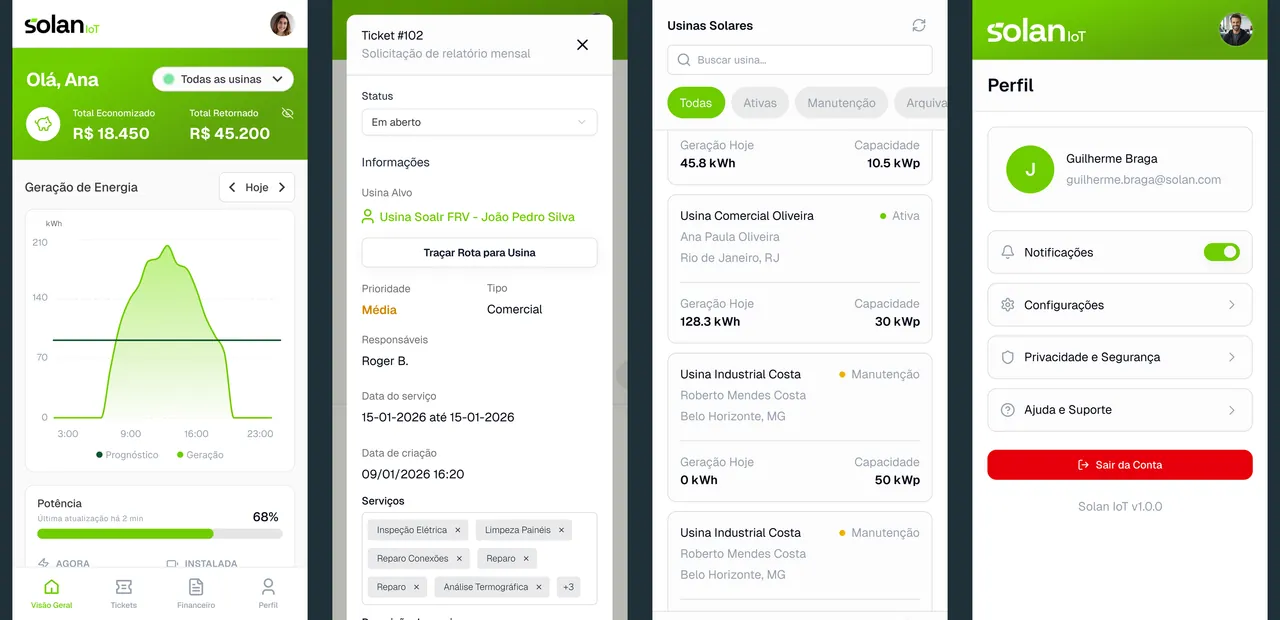
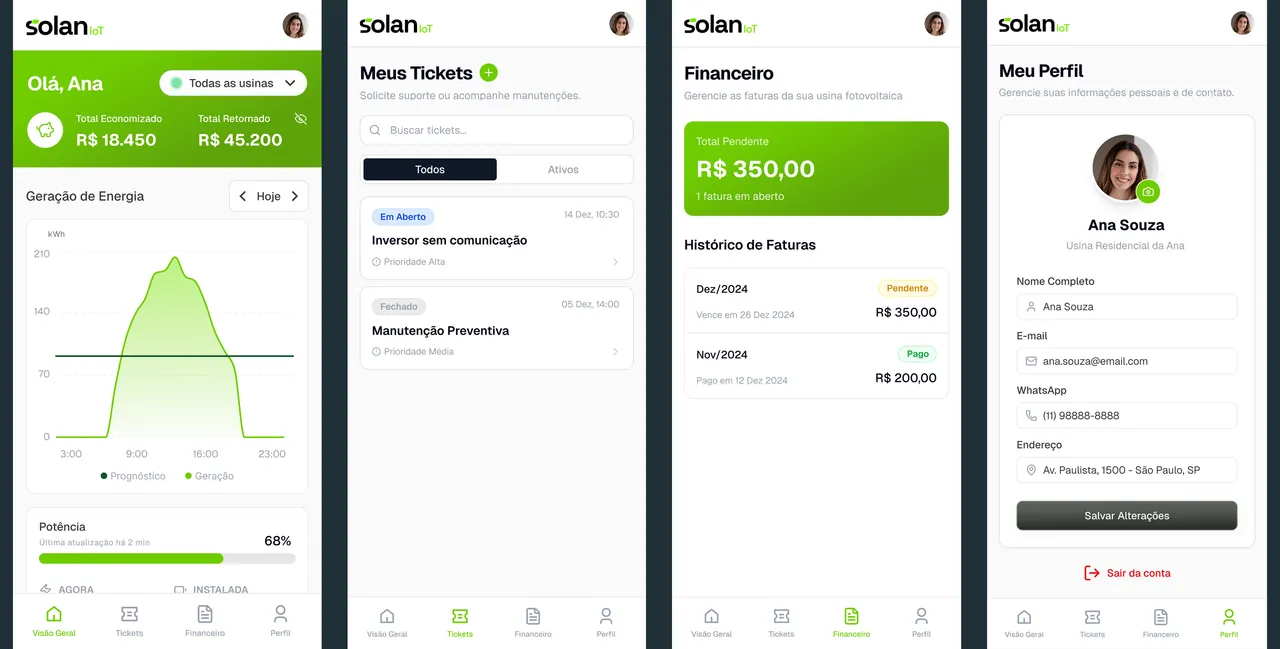
Põe no Solan um celular por módulo do app do cliente: visão geral, tickets, financeiro e perfil

diff --git a/content/vitrine.ts b/content/vitrine.ts
@@ -119,7 +119,7 @@ export const VITRINE: readonly VitrineItem[] = [
     screens: [
       { src: `${V}/solan-group/relatorios-personalizado.webp`, aspect: 1.636 },
       { src: `${V}/solan-group/relatorios-problemas.webp`, aspect: 0.901 },
-      { src: `${V}/solan-group/mobile.webp`, aspect: 2.063 },
+      { src: `${V}/solan-group/mobile.webp`, aspect: 1.973 },
     ],
   },
 ];
